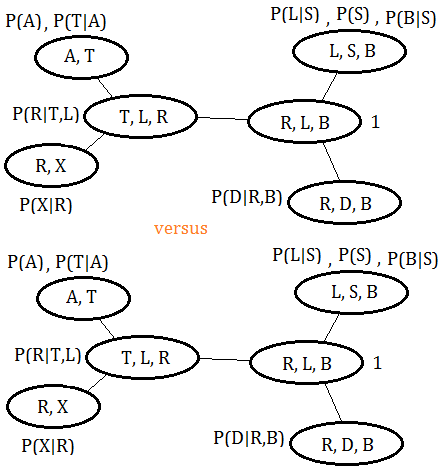
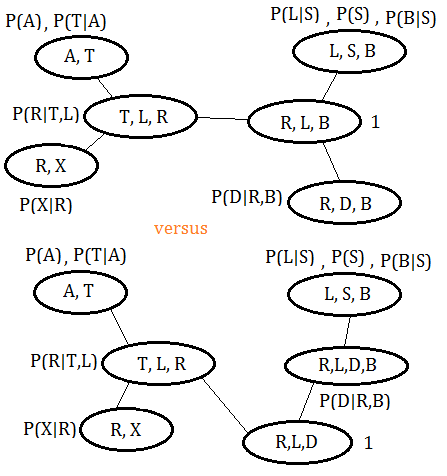
update _posts/2018-10-14-bayesian-ml-clique-tree-construction.md with very different elimination order, 5

diff --git a/_posts/2018-10-14-bayesian-ml-clique-tree-construction.md b/_posts/2018-10-14-bayesian-ml-clique-tree-construction.md
@@ -121,8 +121,10 @@ The construction of <font color="Red">clique tree</font> aims at <font color="Re
 >&#10112;<font color="DeepSkyBlue">moralize</font> the <font color="Red">BN</font> to get the <font color="Red">MN</font>.  
 >&#10113;eliminate variable $X$, we get the clique $(X,R)$.  
 >&#10114;eliminate variable $A$, we get the clique $(A,T)$.  
->&#10115;eliminate variable $T$, we get the clique $(T,L,R)$. 
+>&#10115;eliminate variable $T$, we get the clique $(T,L,R)$.  
 ![]({{ site.github.repo }}{{ site.baseurl }}/images/pic/2018-10-14-bayesian-ml-clique-tree-construction-very-diff-e-o-step-4.png "step 4")
+>&#10116;eliminate variable $R$, we get the clique $(R,L,D,B)$.  
+![]({{ site.github.repo }}{{ site.baseurl }}/images/pic/2018-10-14-bayesian-ml-clique-tree-construction-very-diff-e-o-step-5.png "step 5")
 >
 ><font color="DeepSkyBlue">[2]</font>
 ><font color="OrangeRed">What is $P(L\vert X=y,A=y)$?</font>  
